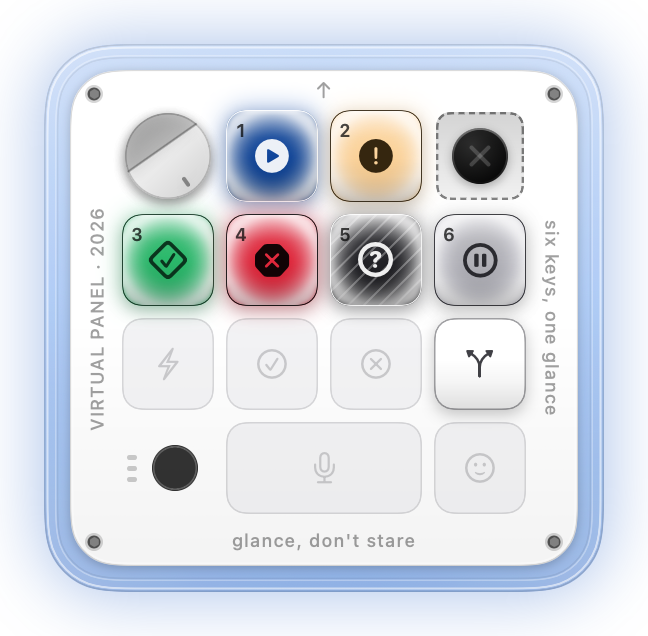
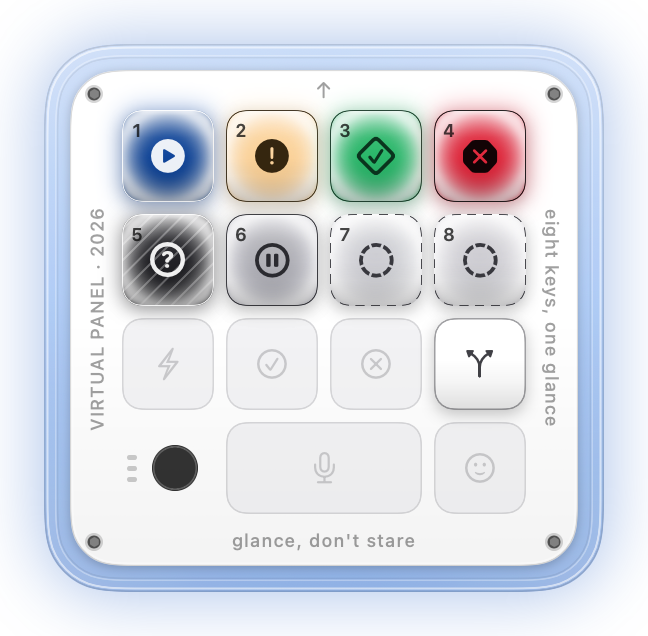
Eight agent slots: the encoder and joystick cells become keys
Neither control earned its cell. The encoder's value went no further than a
published property - setEffort was a one-line setter with nothing behind it - and
the pad shipped with all four presets unbound, which the M1 review flagged as a
regression. Two dead controls cost two agent slots, and agent slots are the whole
product.

agentKeyCount 6 -> 8, both top rows in reading order. dialFrame and padZone still
compute so DialView and DirectionPadView keep compiling with their checks intact,
but they are absent from hitTargets and nothing composes them.

A deliberate departure from hardware fidelity, recorded as such in the layout.

Two checks caught my mistakes rather than me catching them:
- I removed the dial and joystick from hitTargets with a replace that silently
  did not match, so the overlap sweep reported 'agent 0 overlaps dial ring' -
  correctly noticing one cell cannot be two targets. Reapplied with an assert.
- The registry's checks hardcoded six slots while slotCount derives from
  agentKeyCount, so a correct widening read as two failures. They derive now.

Side legend corrected to 'eight keys, one glance'.

Changed region(s): [[0.1543, 0.1494, 0.8333, 0.5079], [0.8333, 0.3286, 0.8642, 0.6871]]

diff --git a/Sources/VirtualCodexMicro/Support/FocusOrder.swift b/Sources/VirtualCodexMicro/Support/FocusOrder.swift
@@ -75,16 +75,12 @@ public struct FocusOrder: Sendable, Equatable {
     public enum Target: Hashable, Sendable {
         case agent(Int)
         case command(PanelLayout.CommandSlot)
-        case dial
-        case joystick
         case overflow
 
         public var hitTargetName: String {
             switch self {
             case .agent(let index): "agent \(index)"
             case .command(let slot): "command \(slot.rawValue)"
-            case .dial: "dial ring"
-            case .joystick: "joystick"
             case .overflow: "overflow"
             }
         }
@@ -93,8 +89,6 @@ public struct FocusOrder: Sendable, Equatable {
             switch self {
             case .agent: .agents
             case .command: .commands
-            case .dial: .dial
-            case .joystick: .pad
             case .overflow: .status
             }
         }
@@ -106,8 +100,7 @@ public struct FocusOrder: Sendable, Equatable {
     public static let all: [Target] =
         (0 ..< PanelLayout.agentKeyCount).map { Target.agent($0) }
             + PanelLayout.CommandSlot.allCases.map { Target.command($0) }
-            + [.dial]
-            + [.joystick, .overflow]
+            + [.overflow]
 
     // MARK: - What is currently reachable
 
@@ -152,13 +145,6 @@ public struct FocusOrder: Sendable, Equatable {
             true
         case .command(let slot):
             CommandKeyView.isEnabled(slot, capabilities: capabilities, canSpawnSessions: canSpawnSessions)
-        case .dial:
-            dialAcceptsInput
-        case .joystick:
-            // One control now, not five keys — the reference device has a single
-            // stick. It is live if any direction is bound, or always, because its
-            // centre opens the preset chooser.
-            true
         case .overflow:
             // Reachable only when there is something to overflow. An empty chip
             // renders nothing, so focusing it would be a dead stop.
@@ -296,7 +282,7 @@ public struct FocusOrder: Sendable, Equatable {
         // 3. Zones are walked as contiguous runs, in the documented order. A zone
         //    interleaved with another is the version of this order that reads as
         //    random when tabbed through.
-        let expectedZones: [PanelLayout.Zone] = [.agents, .commands, .dial, .pad, .status]
+        let expectedZones: [PanelLayout.Zone] = [.agents, .commands, .status]
         var runs: [PanelLayout.Zone] = []
         for target in order where runs.last != target.zone { runs.append(target.zone) }
         check("zone runs are \(runs.map(\.rawValue)), expected \(expectedZones.map(\.rawValue))",
@@ -360,13 +346,8 @@ public struct FocusOrder: Sendable, Equatable {
                     failures.append("\(label): command \(slot.rawValue) focusability disagrees with CommandKeyView")
                 }
             }
-            // The joystick is one stop and is always live (its centre opens the
-            // chooser even with nothing bound), so it has no per-direction
-            // agreement to check. The overflow chip must be focusable exactly when
-            // there is something to show.
-            if focusOrder.isFocusable(.joystick) != true {
-                failures.append("\(label): the joystick should always be focusable")
-            }
+            // The encoder and joystick are gone: their cells are agent keys now, so
+            // there is no per-control agreement left to check here.
             if focusOrder.isFocusable(.overflow) != focusOrder.hasUnboundSessions {
                 failures.append("\(label): overflow focusability disagrees with whether anything is unbound")
             }

diff --git a/Sources/VirtualCodexMicro/Support/PanelLayout.swift b/Sources/VirtualCodexMicro/Support/PanelLayout.swift
@@ -78,7 +78,7 @@ public struct PanelLayout: Sendable, Equatable {
 
     // MARK: - Base geometry, in points at regular size
 
-    public static let agentKeyCount = 6
+    public static let agentKeyCount = 8
     public static let columns = 4
     public static let rows = 4
 
@@ -176,10 +176,21 @@ public struct PanelLayout: Sendable, Equatable {
 
     // MARK: - Agent keys
 
-    /// Row 0 columns 1–2, then all of row 1. Reading order, so key 0 is the
-    /// top-left *agent* key rather than the top-left cell.
+    /// Both top rows, in reading order.
+    ///
+    /// The reference device spends its two top-corner cells on a rotary encoder and
+    /// a joystick, and this layout followed it. Neither earned the space: the
+    /// encoder's value was never dispatched anywhere, and the pad shipped with all
+    /// four presets unbound. Two dead controls cost two agent slots, and agent slots
+    /// are the entire product — so the corners became keys 0 and 3.
+    ///
+    /// This is a deliberate departure from hardware fidelity. `dialFrame` and
+    /// `padZone` still compute so `DialView` and `DirectionPadView` keep compiling
+    /// with their checks intact, but nothing composes them and they are absent from
+    /// `hitTargets`.
     private static let agentCells: [(row: Int, column: Int)] = [
-        (0, 1), (0, 2), (1, 0), (1, 1), (1, 2), (1, 3),
+        (0, 0), (0, 1), (0, 2), (0, 3),
+        (1, 0), (1, 1), (1, 2), (1, 3),
     ]
 
     public var agentKeyFrames: [CGRect] {
@@ -269,7 +280,14 @@ public struct PanelLayout: Sendable, Equatable {
 
     // MARK: - Hit targets
 
-    /// Every interactive element, in traversal order. The joystick is one entry.
+    /// Every interactive element, in traversal order.
+    ///
+    /// The encoder and joystick are deliberately absent: their cells are agent keys
+    /// 0 and 3 now. `dialFrame` and `padZone` still compute, so `DialView` and
+    /// `DirectionPadView` keep compiling with their own checks intact, but they are
+    /// not composed and must not be listed here — leaving them in made the overlap
+    /// sweep report agent 0 colliding with the dial, which is the check correctly
+    /// noticing that one cell cannot be two targets.
     public var hitTargets: [HitTarget] {
         var targets: [HitTarget] = []
         for (index, frame) in agentKeyFrames.enumerated() {
@@ -278,17 +296,10 @@ public struct PanelLayout: Sendable, Equatable {
         for slot in CommandSlot.allCases {
             targets.append(HitTarget(name: "command \(slot.rawValue)", frame: commandKeyFrame(slot), zone: .commands))
         }
-        targets.append(HitTarget(name: "dial ring", frame: dialFrame, zone: .dial))
-        targets.append(HitTarget(name: "dial reset", frame: dialCenterFrame, zone: .dial, nested: true))
-        targets.append(HitTarget(name: "joystick", frame: padZone, zone: .pad))
         // The reference device puts status LEDs in this cell, which makes it the
         // honest home for the overflow indicator rather than a gap squeezed
         // between zones — and unlike that gap, it clears the hit floor.
         targets.append(HitTarget(name: "overflow", frame: statusClusterFrame, zone: .status))
-        for direction in PadDirection.allCases {
-            targets.append(HitTarget(name: "pad \(direction.rawValue)", frame: padFrame(direction),
-                                     zone: .pad, nested: true))
-        }
         return targets
     }
 

diff --git a/Sources/VirtualCodexMicro/State/SessionRegistry.swift b/Sources/VirtualCodexMicro/State/SessionRegistry.swift
@@ -612,7 +612,7 @@ public extension SessionRegistry {
             )
         }
 
-        // 1. Round trip: all six slots survive a fresh registry over the same store.
+        // 1. Round trip: every slot survives a fresh registry over the same store.
         let store = MemoryBindingStore()
         var engine = StateEngine(sources: sources)
         var registry = SessionRegistry(store: store)
@@ -621,7 +621,11 @@ public extension SessionRegistry {
         }
         let reloaded = SessionRegistry(store: store)
         check("round trip lost bindings", reloaded.bindings == registry.bindings)
-        check("round trip stored fewer than six slots", reloaded.bindings.compactMap { $0 }.count == 6)
+        // Derived, not literal: slotCount tracks PanelLayout.agentKeyCount, which
+        // moved from 6 to 8 when the encoder and joystick cells became keys. A
+        // hardcoded 6 turned a correct widening into two check failures.
+        check("round trip stored fewer than \(SessionRegistry.slotCount) slots",
+              reloaded.bindings.compactMap { $0 }.count == SessionRegistry.slotCount)
         check("round trip logged a warning", reloaded.warnings.isEmpty)
         for index in 0 ..< SessionRegistry.slotCount {
             check(
@@ -784,7 +788,7 @@ public extension SessionRegistry {
             ("unreadable", MemoryBindingStore(readError: MemoryBindingStore.Failure.unreadable)),
         ] {
             let broken = SessionRegistry(store: badStore)
-            check("\(label) store did not yield six slots", broken.bindings.count == SessionRegistry.slotCount)
+            check("\(label) store did not yield \(SessionRegistry.slotCount) slots", broken.bindings.count == SessionRegistry.slotCount)
             check("\(label) store yielded a binding", broken.bindings.allSatisfy { $0 == nil })
             check("\(label) store logged no reason", !broken.warnings.isEmpty)
         }
@@ -822,7 +826,9 @@ public extension SessionRegistry {
         // 10. Out-of-range slots are refused rather than trapping.
         var edge = SessionRegistry(store: MemoryBindingStore())
         var edgeEngine = StateEngine(sources: sources)
-        check("binding to slot 6 was accepted", !edge.bind(session("nope"), to: 6, engine: &edgeEngine, at: t0).bound)
+        let pastEnd = SessionRegistry.slotCount
+        check("binding to slot \(pastEnd) was accepted",
+              !edge.bind(session("nope"), to: pastEnd, engine: &edgeEngine, at: t0).bound)
         check("binding to slot -1 was accepted", !edge.bind(session("nope"), to: -1, engine: &edgeEngine, at: t0).bound)
         check("out-of-range bind logged nothing", !edge.warnings.isEmpty)
         check("swap with an out-of-range slot succeeded", !edge.move(from: 0, to: 9))

diff --git a/Sources/VirtualCodexMicro/Panel/PanelRootView.swift b/Sources/VirtualCodexMicro/Panel/PanelRootView.swift
@@ -27,8 +27,6 @@ struct PanelRootView: View {
             silhouette
             agentKeys
             commandCluster
-            dial
-            pad
             actionNote
         }
         .frame(width: layout.panelSize.width, height: layout.panelSize.height)
@@ -52,16 +50,12 @@ struct PanelRootView: View {
     /// and inert there.
     private func isFocusable(_ target: FocusOrder.Target) -> Bool {
         switch target {
-        case .agent, .dial:
+        case .agent:
             return true
         case .command(let slot):
             return CommandKeyView.isEnabled(
                 slot, capabilities: coordinator.focusedCapabilities, canSpawnSessions: true
             )
-        case .joystick:
-            // One stick, always live: its centre opens the preset chooser even
-            // with nothing bound to a direction.
-            return true
         case .overflow:
             // Not rendered any more, so never a stop.
             return false
@@ -126,28 +120,7 @@ struct PanelRootView: View {
         )
     }
 
-    private var dial: some View {
-        DialView(
-            layout: layout,
-            scale: .effort,
-            stepIndex: Binding(
-                get: { coordinator.effortStep },
-                set: { coordinator.setEffort($0) }
-            )
-        )
-        .offset(x: layout.dialFrame.minX, y: layout.dialFrame.minY)
-        .focused($focus, equals: .dial)
-    }
 
-    private var pad: some View {
-        DirectionPadView(
-            layout: layout,
-            presets: DirectionPadView.defaultPresets { _ in },
-            openChooser: {}
-        )
-        .offset(x: layout.padZone.minX, y: layout.padZone.minY)
-        .focused($focus, equals: .joystick)
-    }
 
     // The overflow chip is deliberately not shown. Its bind action was a no-op
     // closure — a button that did nothing — and now that only live sessions take a

diff --git a/Sources/VirtualCodexMicro/Panel/DeviceChrome.swift b/Sources/VirtualCodexMicro/Panel/DeviceChrome.swift
@@ -170,7 +170,7 @@ struct DeviceChrome: View {
         /// Down the left side, where the hardware puts maker and year.
         static let left = "VIRTUAL PANEL · 2026"
         /// Down the right side, where the hardware puts its tagline.
-        static let right = "six keys, one glance"
+        static let right = "eight keys, one glance"
         /// Above the grid: which way is up when it is face-down on a desk.
         static let orientation = "↑"
         /// Below the grid.
